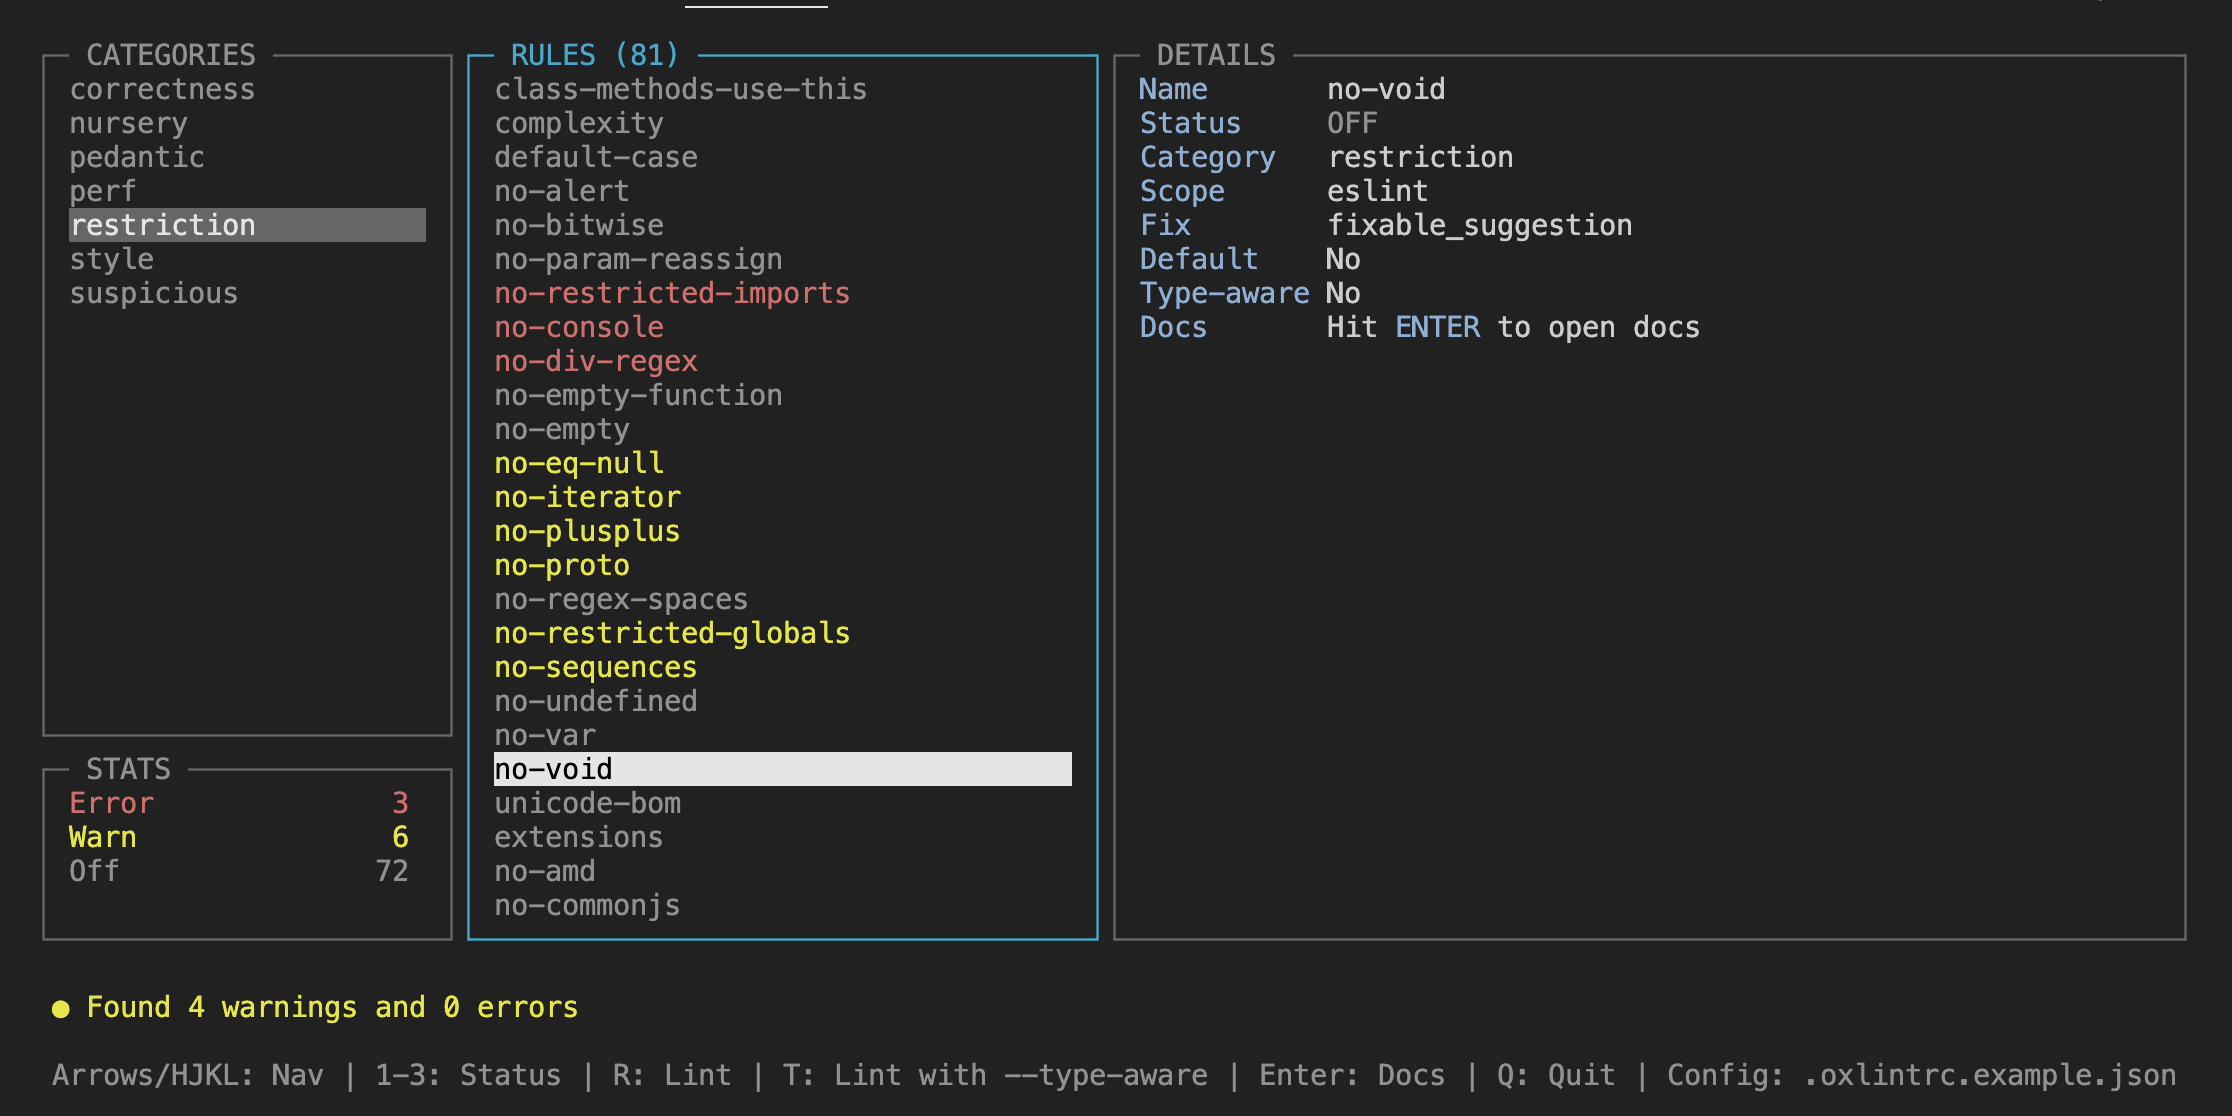
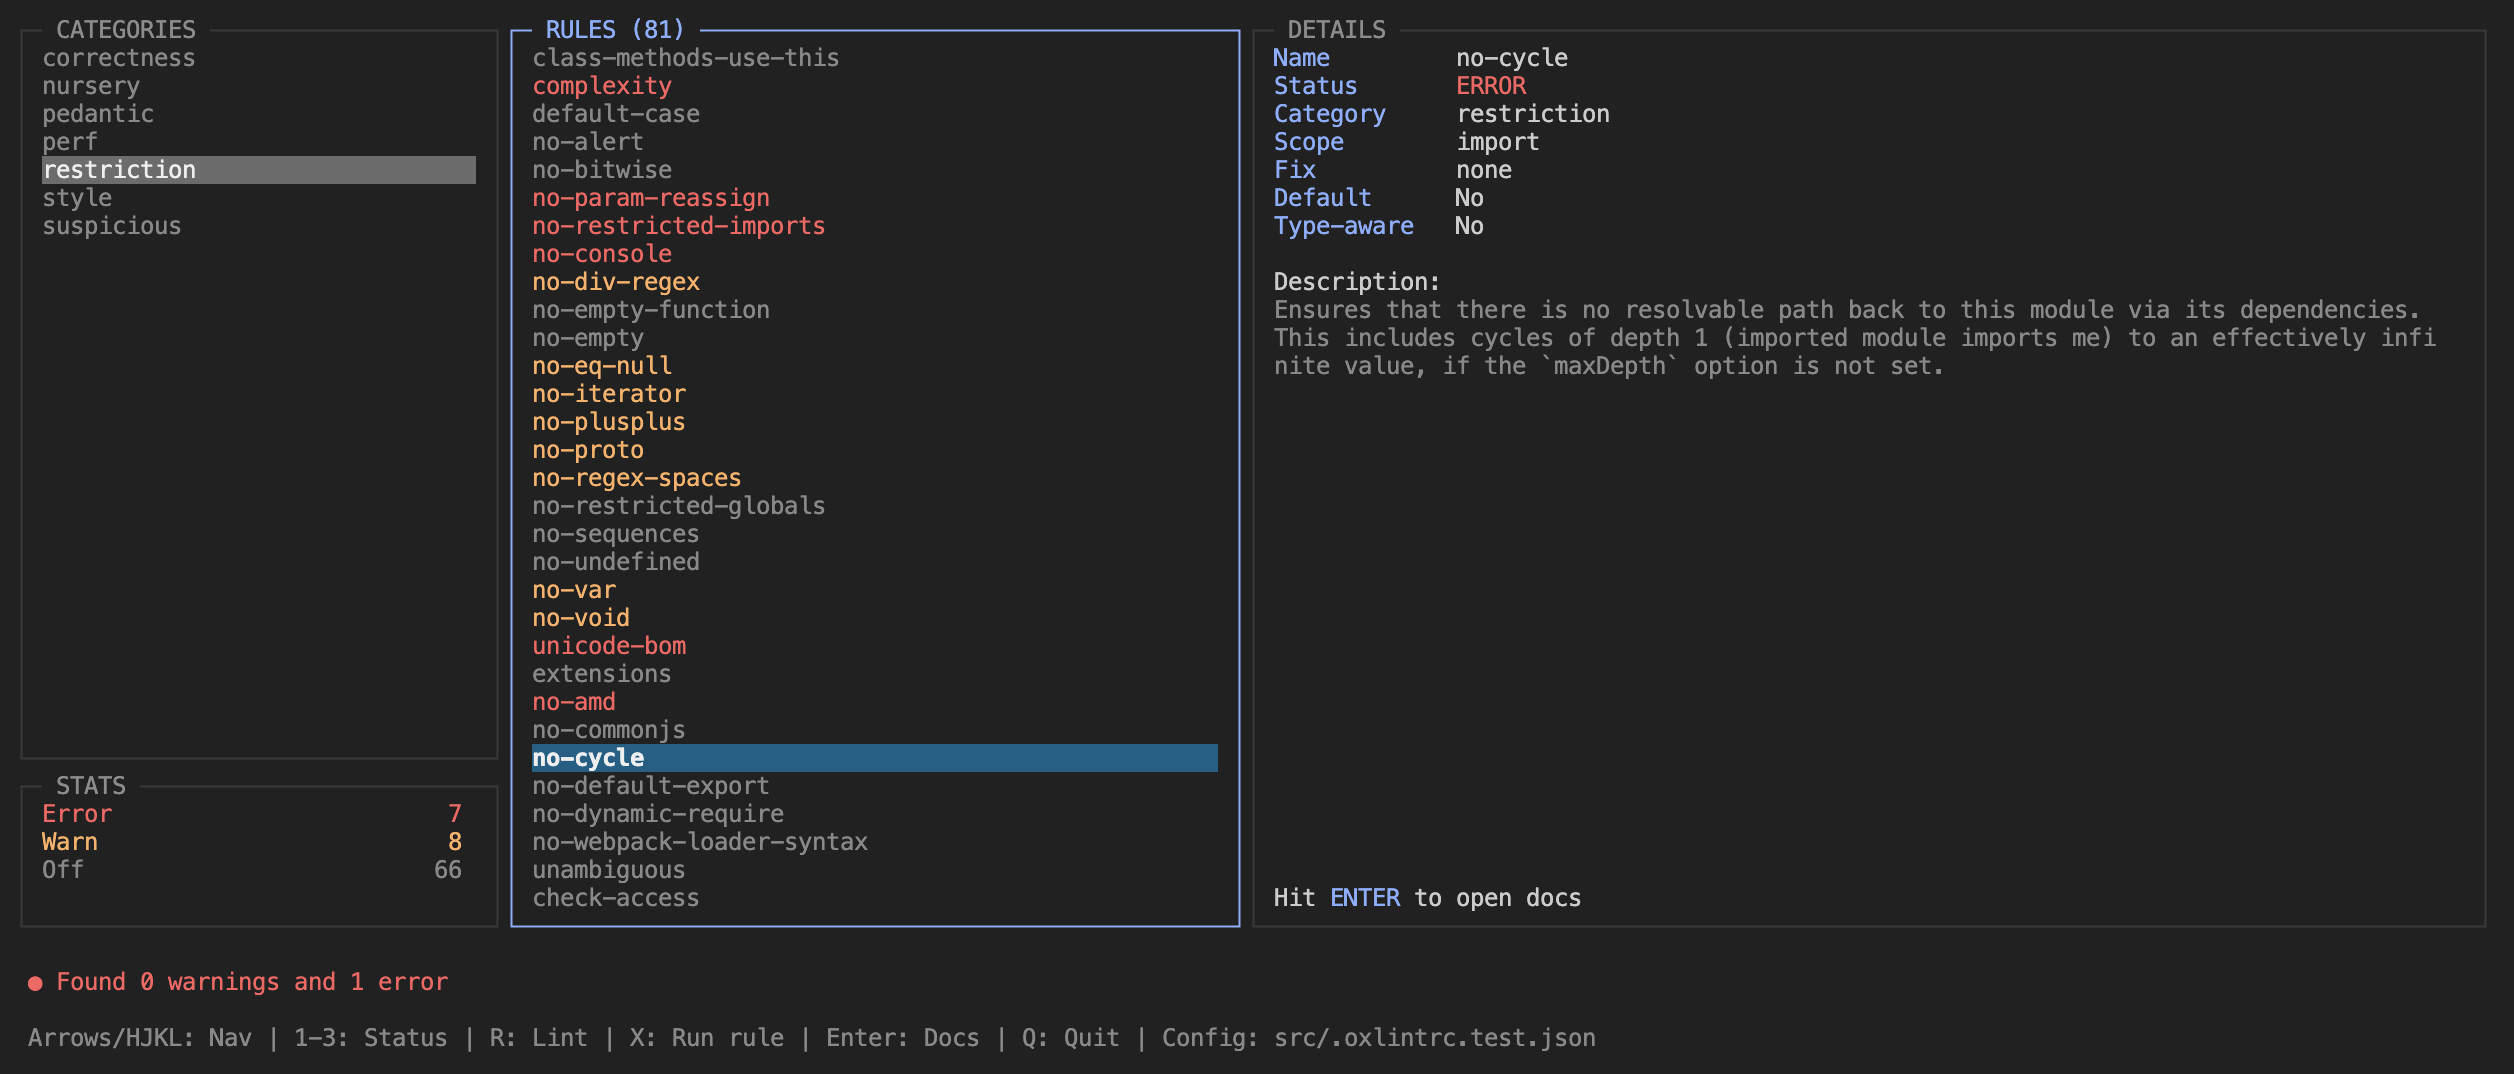
add rule descriptions and change colors

diff --git a/src/generate-rule-descriptions.ts b/src/generate-rule-descriptions.ts
@@ -1,0 +1,155 @@
+// Thanks @connorshea https://github.com/connorshea/oxlint-config-generator/blob/main/scripts/generate-rule-descriptions.ts
+
+import { execSync } from "node:child_process";
+import { readdirSync, readFileSync, writeFileSync, mkdirSync, statSync, rmSync } from "node:fs";
+import { join, dirname, relative } from "node:path";
+import { fileURLToPath } from "node:url";
+import { tmpdir } from "node:os";
+
+const __filename = fileURLToPath(import.meta.url);
+const __dirname = dirname(__filename);
+
+const REPO_URL = "https://github.com/oxc-project/oxc-project.github.io.git";
+const DEFAULT_CLONE_DIR = join(tmpdir(), "oxc-project-site-temp-build");
+
+const RULES_GLOB_DIR = join("src", "docs", "guide", "usage", "linter", "rules");
+const OUTPUT_DIR = join(__dirname, "./");
+const OUTPUT_FILE = join(OUTPUT_DIR, "rule-descriptions.json");
+
+function log(...args: unknown[]) {
+  console.log("[generate-rule-descriptions]", ...args);
+}
+
+function ensureDir(p: string) {
+  mkdirSync(p, { recursive: true });
+}
+
+function cloneOrUpdateRepo(cloneDir: string) {
+  if (statSyncSafe(cloneDir)) {
+    log(`Found existing temp repo at ${cloneDir}, attempting to update...`);
+    try {
+      execSync("git pull", { cwd: cloneDir, stdio: "inherit" });
+    } catch {
+      log("Failed to update repo, wiping and re-cloning...");
+      rmSync(cloneDir, { recursive: true, force: true });
+      ensureDir(dirname(cloneDir));
+      execSync(`git clone --depth 1 ${REPO_URL} "${cloneDir}"`, { stdio: "inherit" });
+    }
+  } else {
+    log(`Cloning ${REPO_URL} into temp dir ${cloneDir}...`);
+    ensureDir(dirname(cloneDir));
+    execSync(`git clone --depth 1 ${REPO_URL} "${cloneDir}"`, { stdio: "inherit" });
+  }
+}
+
+function statSyncSafe(path: string) {
+  try {
+    return statSync(path);
+  } catch {
+    return null;
+  }
+}
+
+function walkDir(dir: string, callback: (filePath: string) => void) {
+  const entries = readdirSync(dir, { withFileTypes: true });
+  for (const entry of entries) {
+    const full = join(dir, entry.name);
+    if (entry.isDirectory()) {
+      walkDir(full, callback);
+    } else {
+      callback(full);
+    }
+  }
+}
+
+function extractWhatItDoes(markdown: string) {
+  const md = markdown.replace(/\r/g, "");
+  const ruleHeaderIndex = md.indexOf("<RuleHeader />");
+  const mdAfterHeader = ruleHeaderIndex !== -1 ? md.slice(ruleHeaderIndex) : md;
+
+  const headingRegex = /^#{3}\s*What it does\s*$/gim;
+  const match = headingRegex.exec(mdAfterHeader);
+  if (!match) return "";
+
+  const startIndex = match.index + match[0].length;
+  const rest = mdAfterHeader.slice(startIndex);
+  const nextHeadingMatch = rest.match(/^#{3}\s*.*$/m);
+  const endIndex = nextHeadingMatch ? nextHeadingMatch.index : rest.length;
+  let section = rest.slice(0, endIndex).trim();
+
+  section = section.replace(/```[\s\S]*?```/g, "");
+  section = section.replace(/!\[[^\]]*\]\([^)]*\)/g, "");
+  section = section.replace(/\[([^\]]+)\]\([^)]+\)/g, "$1");
+  section = section.replace(/(^|\n)#{1,3}\s.*$/gim, "");
+  section = section.replace(/\*{1,2}([^*]+)\*{1,2}/g, "$1");
+  section = section.replace(/_{1,2}([^_]+)_{1,2}/g, "$1");
+  section = section.replace(/\n{2,}/g, "\n\n").trim();
+
+  return section;
+}
+
+function buildDescriptionsFromRepo(baseDir: string) {
+  const targetDir = join(baseDir, RULES_GLOB_DIR);
+  const stats = statSyncSafe(targetDir);
+  if (!stats) {
+    throw new Error(`Rules directory not found in repo at ${targetDir}`);
+  }
+
+  const descriptions: Record<string, Record<string, string>> = {};
+
+  walkDir(targetDir, (filePath) => {
+    if (!filePath.endsWith(".md")) return;
+    const rel = relative(targetDir, filePath);
+    const parts = rel.split(/\/|\\/);
+    if (parts.length !== 2) return;
+    const [plugin, fileName] = parts;
+    const ruleName = fileName.replace(/\.md$/, "");
+
+    const content = readFileSync(filePath, "utf8");
+    const desc = extractWhatItDoes(content);
+
+    if (!descriptions[plugin]) descriptions[plugin] = {};
+    descriptions[plugin][ruleName] = desc;
+  });
+
+  return descriptions;
+}
+
+function saveDescriptions(obj: Record<string, Record<string, string>>) {
+  ensureDir(OUTPUT_DIR);
+  writeFileSync(OUTPUT_FILE, JSON.stringify(obj, null, 2));
+  log(`Saved descriptions to ${OUTPUT_FILE}`);
+}
+
+await (async function main() {
+  const args = process.argv.slice(2);
+  const cloneDirArg = args.find((a) => a.startsWith("--clone-dir="));
+  const cloneDir = cloneDirArg ? cloneDirArg.split("=")[1] : DEFAULT_CLONE_DIR;
+
+  try {
+    const skipClone = args.includes("--skip-clone");
+
+    if (!skipClone) {
+      cloneOrUpdateRepo(cloneDir);
+    } else {
+      log("--skip-clone provided; using existing repo at %s", cloneDir);
+    }
+
+    const descriptions = buildDescriptionsFromRepo(cloneDir);
+    saveDescriptions(descriptions);
+
+    log("Done. Total plugins:", Object.keys(descriptions).length);
+  } catch (err) {
+    console.error(err);
+    process.exit(1);
+  } finally {
+    try {
+      if (!args.includes("--keep-temp")) {
+        log(`Cleaning up temporary directory: ${cloneDir}`);
+        rmSync(cloneDir, { recursive: true, force: true });
+      }
+    } catch (e) {
+      console.error("Failed to clean up temp dir:", e);
+    }
+  }
+})();

diff --git a/src/rendering.ts b/src/rendering.ts
@@ -4,15 +4,15 @@ import { stdout } from "node:process";
 
 export const COLORS = {
   reset: "\x1b[0m",
-  dim: "\x1b[90m",
-  highlight: "\x1b[38;5;110m",
-  selectedBg: "\x1b[47m\x1b[30m",
-  borderActive: "\x1b[36m",
-  borderInactive: "\x1b[90m",
-  error: "\x1b[31m",
-  warn: "\x1b[33m",
-  success: "\x1b[32m",
-  info: "\x1b[34m",
+  dim: "\x1b[38;5;242m",
+  highlight: "\x1b[38;5;111m",
+  selectedBg: "\x1b[48;5;24m\x1b[38;5;255m\x1b[1m",
+  borderActive: "\x1b[38;5;111m",
+  borderInactive: "\x1b[38;5;237m",
+  error: "\x1b[38;5;203m",
+  warn: "\x1b[38;5;215m",
+  success: "\x1b[38;5;114m",
+  info: "\x1b[38;5;75m",
 } as const;
 
 function chunkString(str: string, len: number): string[] {
@@ -145,7 +145,7 @@ function drawDetails(
     statusDisplay = `${COLORS.warn}${statusDisplay}${COLORS.reset}`;
   else statusDisplay = `${COLORS.dim}${statusDisplay}${COLORS.reset}`;
 
-  const labels: [string, string][] = [
+  const metadata: [string, string][] = [
     ["Name", rule.value],
     ["Status", statusDisplay],
     ["Category", rule.category],
@@ -153,28 +153,42 @@ function drawDetails(
     ["Fix", rule.fix || "N/A"],
     ["Default", rule.default ? "Yes" : "No"],
     ["Type-aware", rule.type_aware ? "Yes" : "No"],
-    ["Docs", `Hit ${COLORS.highlight}ENTER${COLORS.reset} to open docs`],
   ];
 
   let line = 0;
-  labels.forEach(([lbl, val]) => {
-    if (lbl === "Status" && line < height - 2) {
+
+  metadata.forEach(([lbl, val]) => {
+    if (line < height - 2) {
       buffer.push(
-        `\x1b[${y + 1 + line};${x + 2}H${COLORS.highlight}${lbl.padEnd(10)} ${COLORS.reset}${val}`,
+        `\x1b[${y + 1 + line};${x + 2}H${COLORS.highlight}${lbl.padEnd(12)} ${COLORS.reset}${val}`,
       );
       line++;
-      return;
     }
-    const chunks = chunkString(String(val || "N/A"), width - 15);
+  });
+
+  if (line < height - 3) line++;
+  if (line < height - 2) {
+    buffer.push(`\x1b[${y + 1 + line};${x + 2}H${COLORS.reset}Description:${COLORS.reset}`);
+    line++;
+
+    const cleanDesc = (rule.description ?? "N/A").replace(/\s+/g, " ").trim();
+    const chunks = chunkString(cleanDesc, width - 6);
+
     chunks.forEach((chunk) => {
       if (line < height - 2) {
-        buffer.push(
-          `\x1b[${y + 1 + line};${x + 2}H${COLORS.highlight}${lbl.padEnd(10)} ${COLORS.reset}${chunk}`,
-        );
+        buffer.push(`\x1b[${y + 1 + line};${x + 2}H${COLORS.dim}${chunk}${COLORS.reset}`);
         line++;
       }
     });
-  });
+  }
+
+  const footerLine = Math.max(line + 1, height - 3);
+
+  if (footerLine < height - 1) {
+    buffer.push(
+      `\x1b[${y + 1 + footerLine};${x + 2}HHit ${COLORS.highlight}ENTER${COLORS.reset} to open docs`,
+    );
+  }
 }
 
 export function render(): void {

diff --git a/src/index.ts b/src/index.ts
@@ -4,8 +4,13 @@ import fs from "node:fs";
 import readline from "readline";
 import { execSync, spawn } from "node:child_process";
 import { stdout, stdin, exit, platform, argv } from "node:process";
+import { join, dirname } from "node:path";
+import { fileURLToPath } from "node:url";
 import type { Action, State, OxlintRule, OxlintConfig, RuleStatus } from "./types.js";
 import { render } from "./rendering.js";
+
+const __filename = fileURLToPath(import.meta.url);
+const __dirname = dirname(__filename);
 
 const OXLINT_VERSION = "1.41.0";
 const TSGOLINT_VERSION = "0.11.1";
@@ -299,6 +304,18 @@ function loadRules(): Pick<State, "categories" | "rulesByCategory" | "config" | 
   };
   let configPath: string | null = null;
 
+  let descriptions: Record<string, Record<string, string>> = {};
+  const descriptionsPath = join(__dirname, "./", "rule-descriptions.json");
+
+  try {
+    if (fs.existsSync(descriptionsPath)) {
+      descriptions = JSON.parse(fs.readFileSync(descriptionsPath, "utf8"));
+    }
+  } catch {
+    state.message = "Error: Couldn't find description.";
+    state.messageType = "error";
+  }
+
   try {
     const raw = execSync(`npx -q --yes oxlint@${OXLINT_VERSION} --rules --format=json`, {
       encoding: "utf8",
@@ -332,8 +349,11 @@ function loadRules(): Pick<State, "categories" | "rulesByCategory" | "config" | 
     const cat = rule.category || "Uncategorized";
     if (!map[cat]) map[cat] = [];
     const status = getRuleStatus(rule.value, cat, config);
+    const description = descriptions[rule.scope]?.[rule.value];
+
     map[cat].push({
       ...rule,
+      description,
       configStatus: status,
       isActive: status === "error" || status === "warn",
     });

diff --git a/src/types.ts b/src/types.ts
@@ -13,6 +13,7 @@ export type OxlintRule = {
   url?: string;
   configStatus: RuleStatus;
   isActive: boolean;
+  description?: string;
 };
 
 export type OxlintConfig = {
